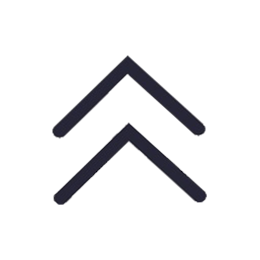
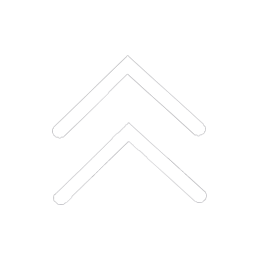
优化组态图侧边菜单栏样式

Changed region(s): [[0.1846, 0.4615, 0.8, 0.8], [0.1846, 0.2154, 0.8, 0.5538]]

diff --git a/renren-admin/src/main/resources/statics/gojs/samples/model.js b/renren-admin/src/main/resources/statics/gojs/samples/model.js
@@ -37,15 +37,12 @@ function init() {
     var html="";
     for(var i=0;i< str.classLists.length;i++){
        html+='<div style=" width: 200px">\n' +
-           '                <div onclick="setTab(\''+(i+1)+'\')"  style="float: top; cursor: pointer;z-index: 99; width: 200px;background-color: #1E90FF; ">\n' +
-           '                    <input id="model'+(i+1)+'"  style=" background-color: #1E90FF;cursor: pointer; font-size: large; width:70%; height:40px;margin-left:30px; border:0px; color:#EBEBEB"  value="'+str.classLists[i].name+'"/>\n' +
-           '                    <img id="pic'+(i+1)+'" style=" width:10%;  float: left; margin-top:10px;"    src="images/back.png"/>\n' +
+           '                <div onclick="setTab(\''+(i+1)+'\')"  style="float: top; cursor: pointer;z-index: 99;height: 50px; width: 200px;background: linear-gradient(to right,#363c6e,#081e41);vertical-align:middle ">\n' +
+           '                    <input id="model'+(i+1)+'"  style=" background-color:transparent;cursor: pointer; font-size: large; width:50%; height:100%;margin-left:15%; border:0px; color:#EBEBEB"  value="'+str.classLists[i].name+'"/>\n' +
+           '                    <img id="pic'+(i+1)+'" style=" width:13%;  margin-right: 10%"    src="images/back.png"/>\n' +
            '                    <!--                    <a target="_self" href="#" rel="external nofollow" rel="external nofollow" rel="external nofollow" onclick="setTab(\'one\',2,3)" id="one2">锅炉类</a>-->\n' +
-           '                    <div style="width: 200px; height:10px ;border:0px; "></div>\n' +
            '                </div>\n' +
-           '                <center>\n' +
-           '                    <div   style="display: block; width: 200px;" id="m'+(i+1)+'"><div id="myPaletteDiv'+(i+1)+'" style="height:400px;width: 200px;  border: solid 1px black"></div></div>\n' +
-           '                </center>\n' +
+           '                    <div   style="display: block; width: 200px;" id="m'+(i+1)+'"><div id="myPaletteDiv'+(i+1)+'" style="height:400px;width: 200px;  border: solid 1px black;margin: 0 auto;background: rgb(1,10,34,0.3)"></div></div>\n' +
            '            </div>';
     }
     document.getElementById("bu").innerHTML=(html);
